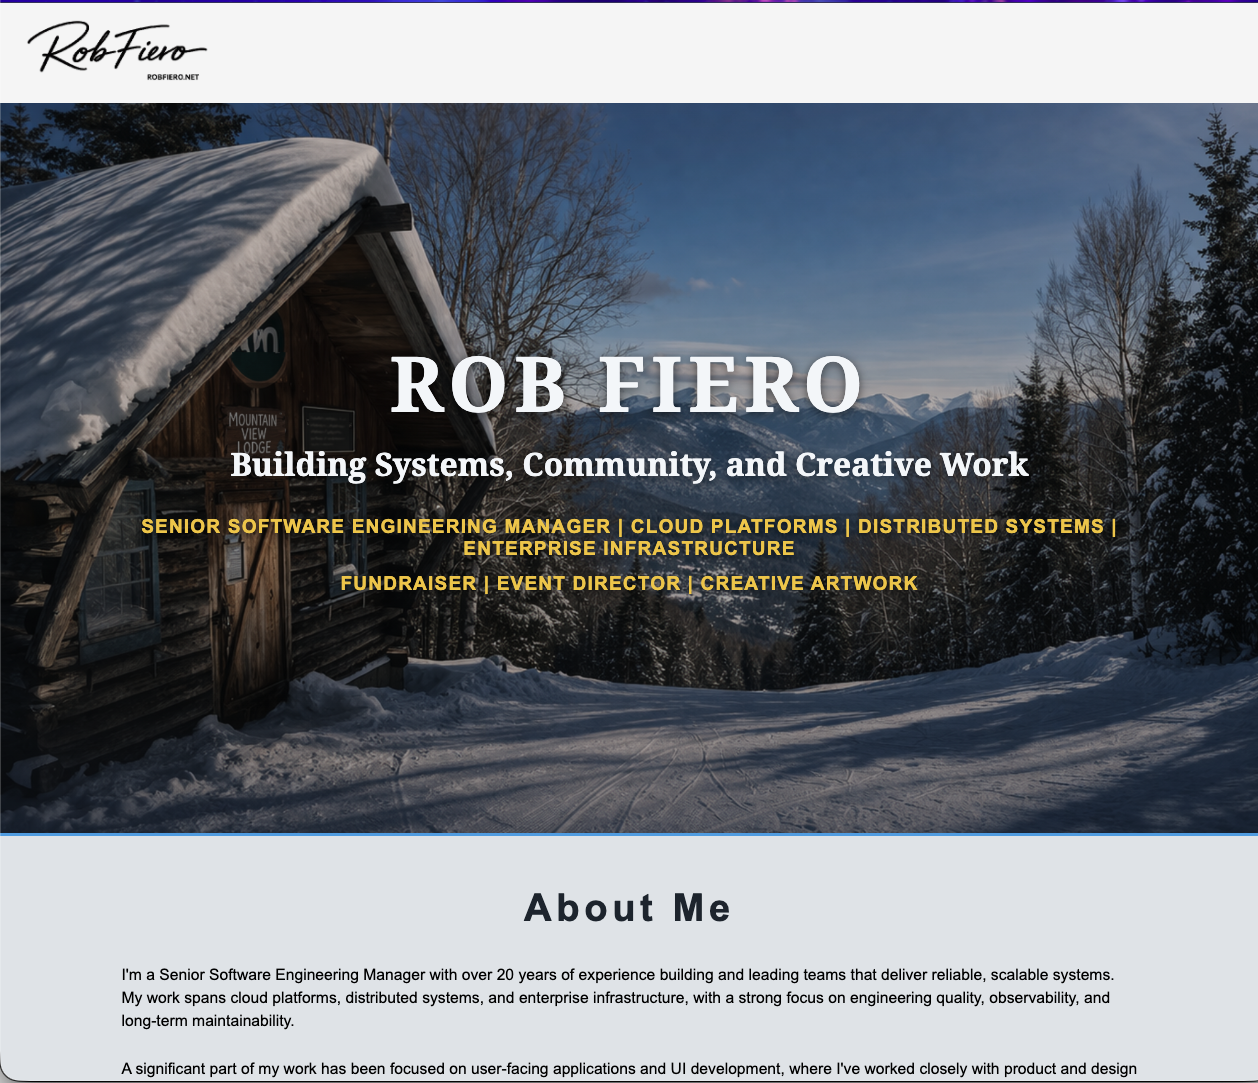
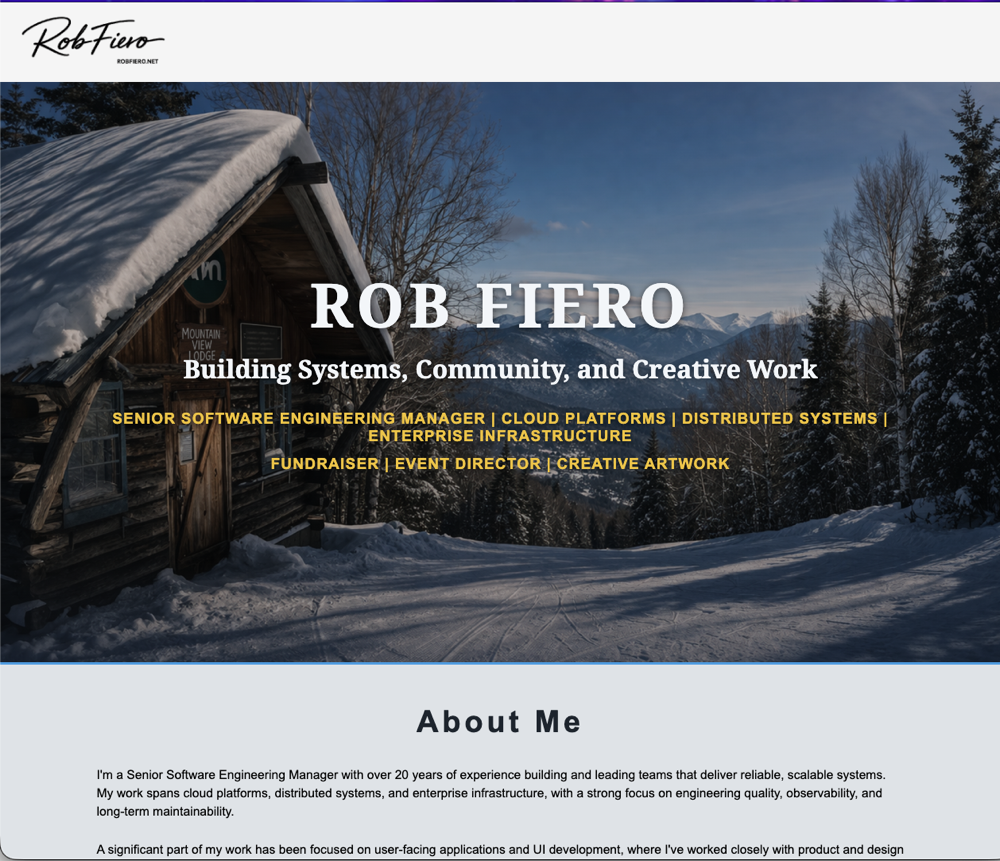
Optimizations to the site, smaller image files.

Changed region(s): [[0.0, 0.9965, 1.0, 1.0]]

diff --git a/src/components/Projects.jsx b/src/components/Projects.jsx
@@ -1,6 +1,6 @@
-import { useMemo, useState } from 'react'
+import { memo, useMemo, useState } from 'react'
 import overview from '../assets/overview.png'
-import creative from '../assets/creative.png'
+import creative from '../assets/creative.jpg'
 import ghost from '../assets/ghost.png'
 import flatrock from '../assets/flatrock.png'
 import website from '../assets/website.png'
@@ -109,7 +109,7 @@ const projects = [
   },
 ]
 
-function ProjectCard({ image, title, description, buttonLabel, buttonHref, imageFit, imageFrame, imagePosition, tags }) {
+const ProjectCard = memo(function ProjectCard({ image, title, description, buttonLabel, buttonHref, imageFit, imageFrame, imagePosition, tags }) {
   const isDisabled = !buttonHref || buttonHref === '#'
   const cardContent = (
     <div className="card-content">
@@ -119,6 +119,7 @@ function ProjectCard({ image, title, description, buttonLabel, buttonHref, image
           alt={title}
           className={`card-image ${imageFit === 'contain' ? 'contain' : 'cover'}`}
           style={imagePosition ? { objectPosition: imagePosition } : undefined}
+          loading="lazy"
         />
       </div>
       <h3 className="card-title">{title}</h3>
@@ -135,13 +136,13 @@ function ProjectCard({ image, title, description, buttonLabel, buttonHref, image
   )
 
   return !isDisabled ? (
-    <a className="card" href={buttonHref} target="_blank" rel="noreferrer">
+    <a className="card" href={buttonHref} target="_blank" rel="noopener noreferrer">
       {cardContent}
     </a>
   ) : (
     <div className="card">{cardContent}</div>
   )
-}
+})
 
 export default function Projects() {
   const filters = ['All', 'Engineering', 'Creative', 'Community']

diff --git a/src/main.jsx b/src/main.jsx
@@ -1,10 +1,10 @@
-import React from 'react'
+import { StrictMode } from 'react'
 import ReactDOM from 'react-dom/client'
 import App from './App'
 import './styles.css'
 
 ReactDOM.createRoot(document.getElementById('root')).render(
-  <React.StrictMode>
+  <StrictMode>
     <App />
-  </React.StrictMode>
+  </StrictMode>
 )

diff --git a/src/styles.css b/src/styles.css
@@ -22,6 +22,12 @@ html {
   scroll-behavior: smooth;
 }
 
+@media (prefers-reduced-motion: reduce) {
+  html {
+    scroll-behavior: auto;
+  }
+}
+
 body {
   margin: 0;
   font-family: Arial, Helvetica, sans-serif;

diff --git a/src/components/Hero.jsx b/src/components/Hero.jsx
@@ -1,4 +1,4 @@
-import hero from '../assets/hero.png'
+import hero from '../assets/hero.jpg'
 
 export default function Hero() {
   return (

diff --git a/src/components/About.jsx b/src/components/About.jsx
@@ -1,4 +1,3 @@
-import '../styles.css';
 import headshot from '../assets/me.jpeg';
 
 const About = () => {
